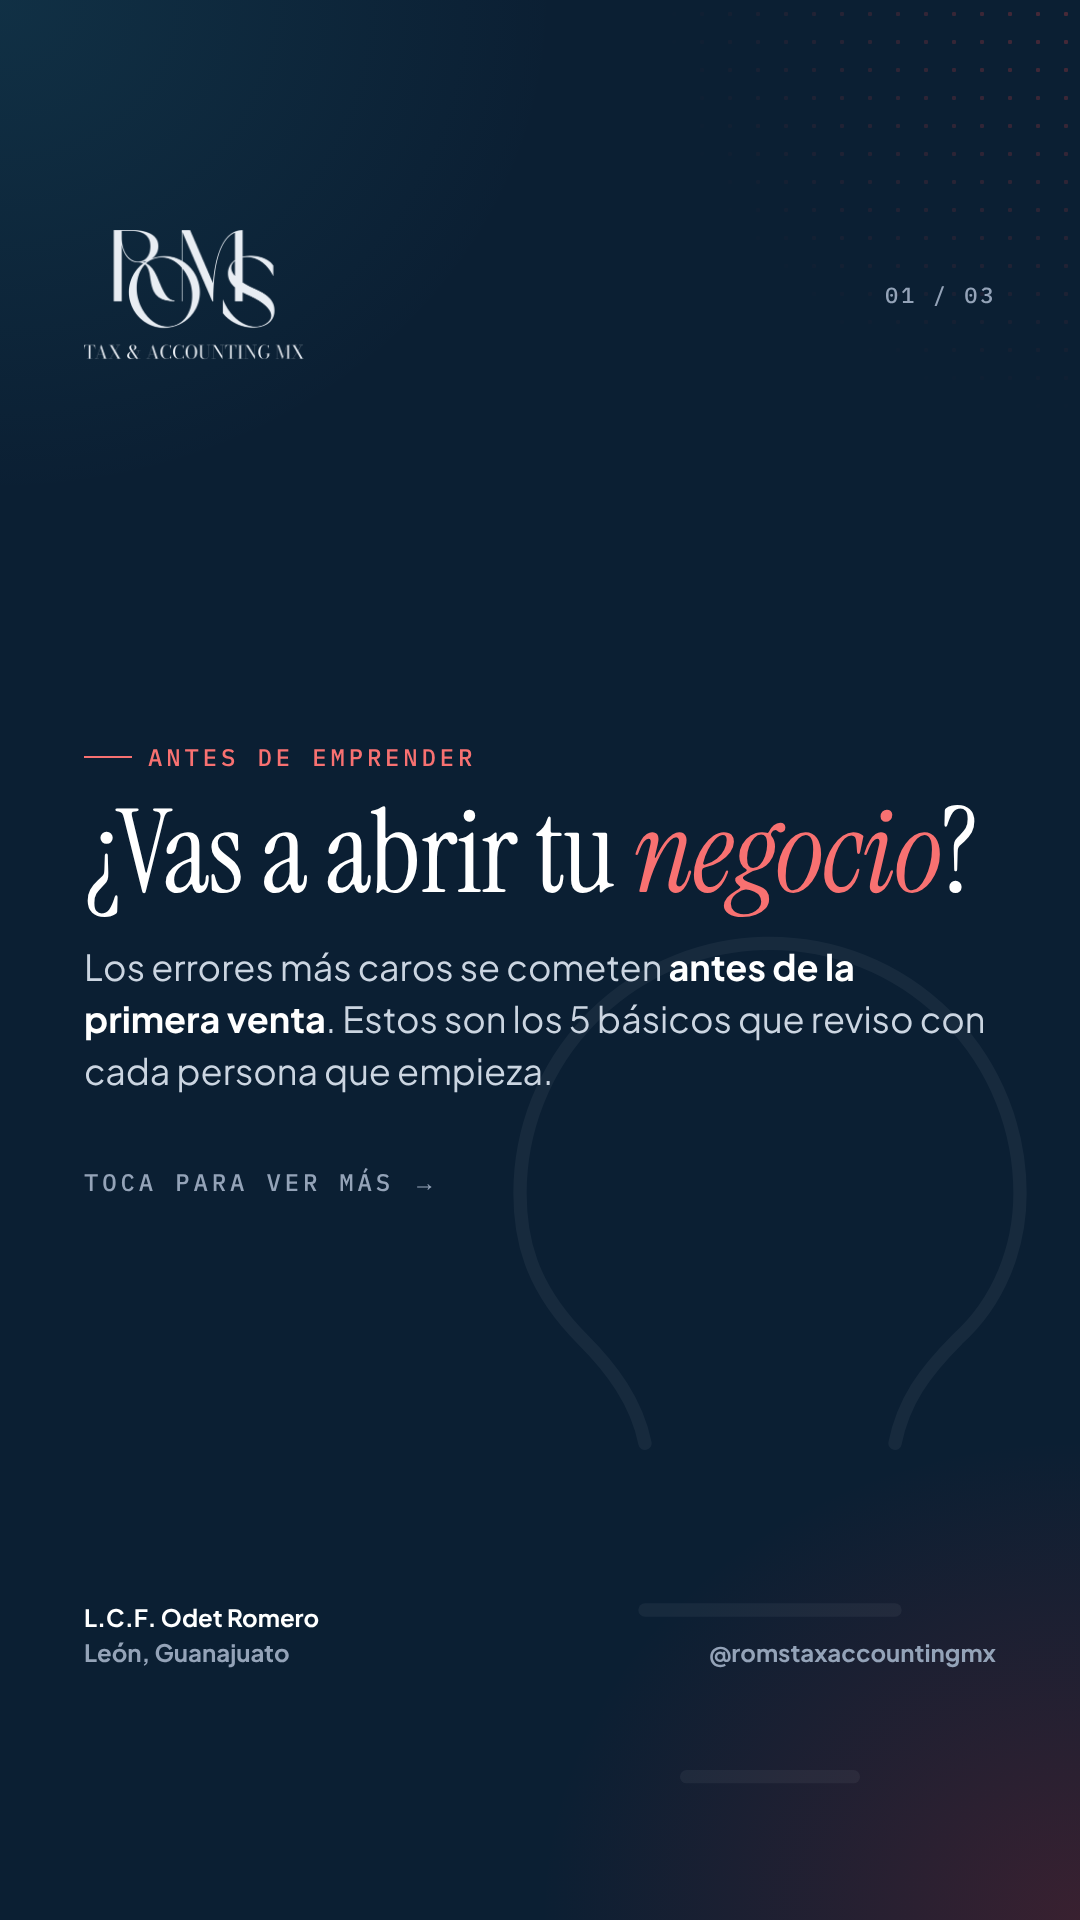
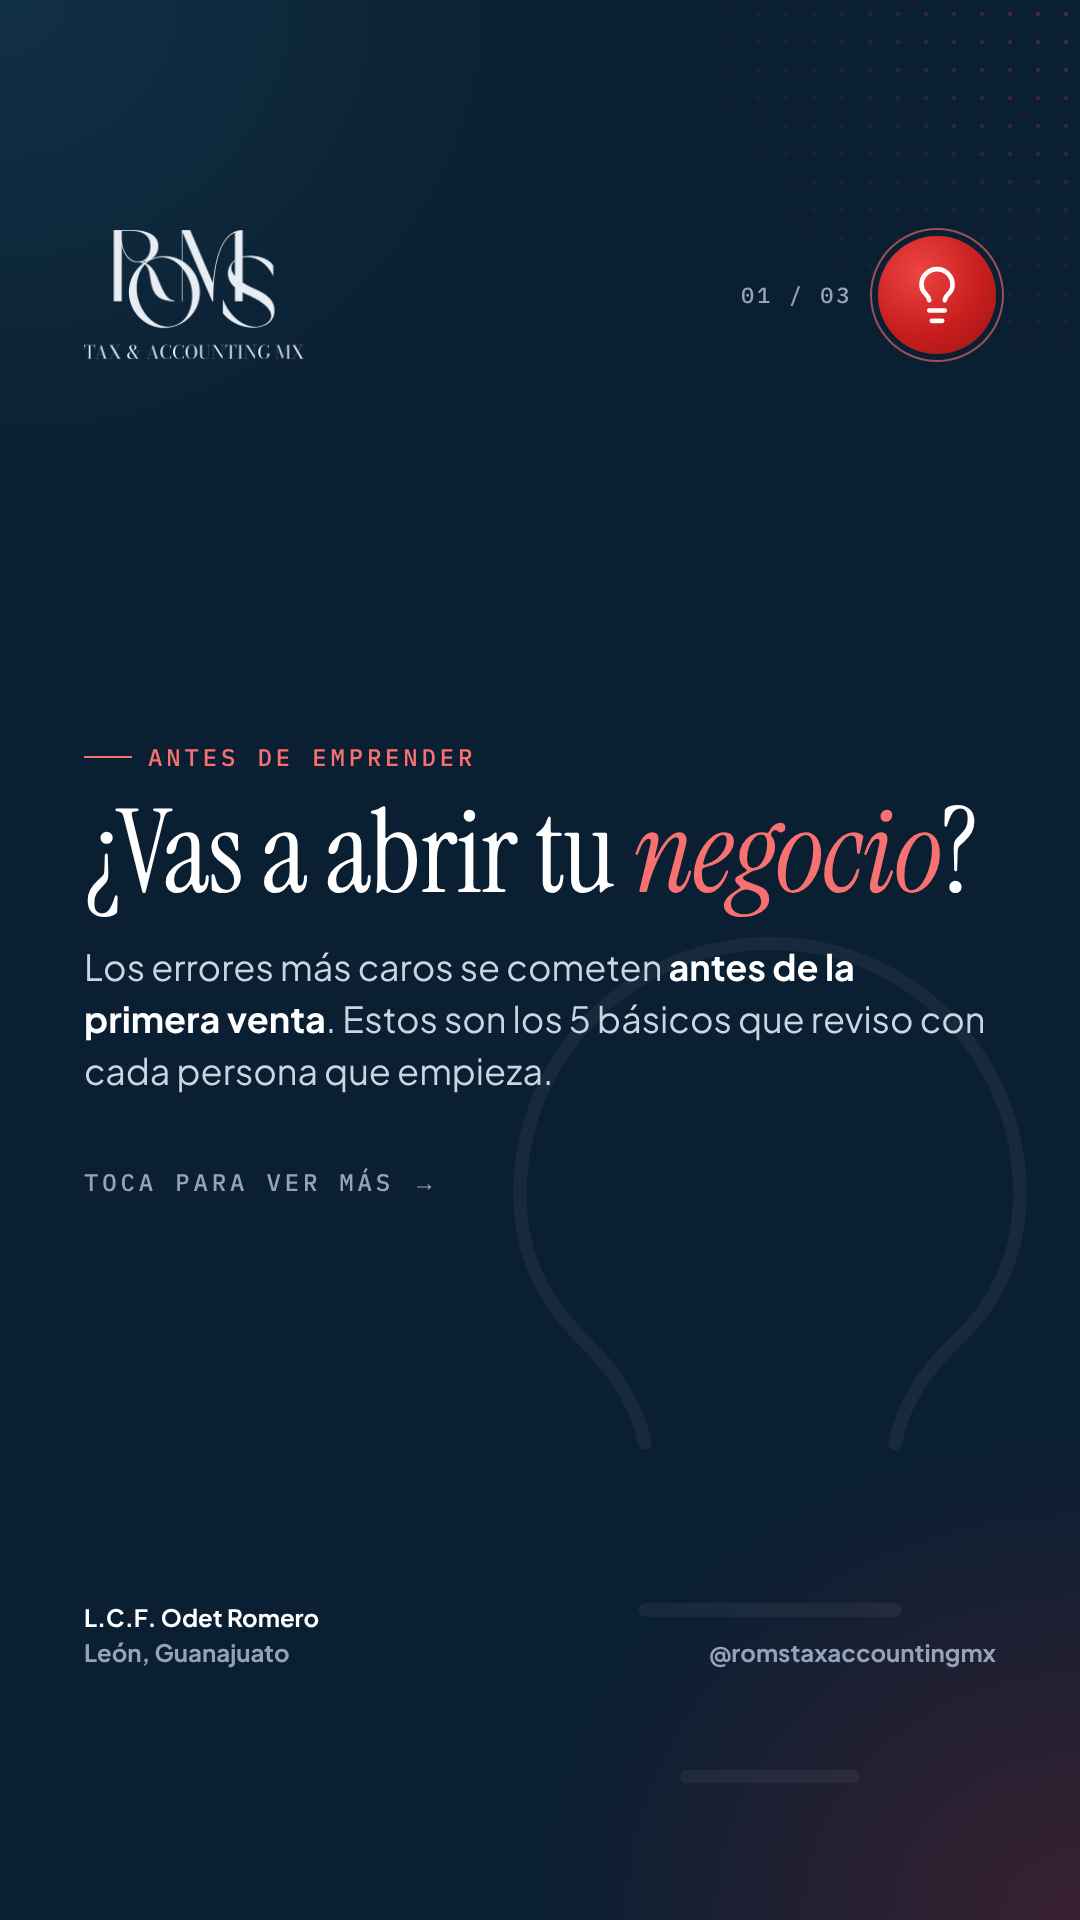
Redes: token por tema en las historias destacadas y carátula para cada tema
Claude-Session: https://claude.ai/code/session_017uhowZJtmGbGSZwToQsEiY

Changed region(s): [[0.7944, 0.125, 0.9472, 0.1875]]

diff --git a/redes/historias-martes.js b/redes/historias-martes.js
@@ -75,9 +75,13 @@ h4{font:700 36px/1.25 PJ;color:#0b1f33}
 .chk div{display:flex;gap:22px;align-items:center;font:400 38px/1.3 PJ;color:#fff}
 .chk svg{color:#f87171;flex:none}
 .cta{margin-top:56px;align-self:flex-start}
+.rt{display:flex;align-items:center;gap:26px}
+.tk{width:118px;height:118px;border-radius:50%;display:grid;place-items:center;color:#fff;background:radial-gradient(circle at 35% 30%,#ef4444,#c81e1e 55%,#9b1515);box-shadow:0 0 0 6px #0b1f33,0 0 0 8px rgba(248,113,113,.6)}
+.s:not(.dark) .tk{box-shadow:0 0 0 6px #f4f0e8,0 0 0 8px rgba(200,30,30,.45)}
 `;
-const page = (body, i, n, bg, dark) => `<!doctype html><html><head><meta charset="utf-8"><style>${css}</style></head><body><div class="s${dark?' dark':''}"><div class="dots"></div>${bg ? `<div class="bgart">${BG(bg)}</div>` : ''}
-<div class="z top"><img src="${dark?LOGOC:LOGO}" alt="ROMS"><span class="count">${String(i).padStart(2,'0')} / ${String(n).padStart(2,'0')}</span></div>
+const TK = n => `<span class="tk">${ICON(n, 62).replace('stroke-width="1.6"','stroke-width="1.8"')}</span>`;
+const page = (body, i, n, bg, dark, tok) => `<!doctype html><html><head><meta charset="utf-8"><style>${css}</style></head><body><div class="s${dark?' dark':''}"><div class="dots"></div>${bg ? `<div class="bgart">${BG(bg)}</div>` : ''}
+<div class="z top"><img src="${dark?LOGOC:LOGO}" alt="ROMS"><span class="rt"><span class="count">${String(i).padStart(2,'0')} / ${String(n).padStart(2,'0')}</span>${tok?TK(tok):''}</span></div>
 <div class="z mid">${body}</div>
 <div class="foot"><span><b>L.C.F. Odet Romero</b><br>León, Guanajuato</span><span>@romstaxaccountingmx</span></div></div></body></html>`;
 
@@ -162,15 +166,15 @@ const cover = (icon) => `<!doctype html><html><head><meta charset="utf-8"><style
   const p = await b.newPage({ viewport: { width: 1080, height: 1920 } });
   for (const [id, set] of Object.entries(sets)) {
     for (const [i, [body, dark]] of set.pages.entries()) {
-      await p.setContent(page(body, i + 1, set.pages.length, i === 0 ? set.bg : null, dark));
+      await p.setContent(page(body, i + 1, set.pages.length, i === 0 ? set.bg : null, dark, set.bg));
       await p.evaluate(() => document.fonts.ready);
       const over = await p.evaluate(() => { const m = document.querySelector('.mid'), f = document.querySelector('.foot'); const kids=[...m.children]; const last=kids[kids.length-1].getBoundingClientRect().bottom; const first=kids[0].getBoundingClientRect().top; return last > f.getBoundingClientRect().top - 20 || first < 380; });
       if (over) console.log('DESBORDA', id, i + 1);
       await p.screenshot({ path: path.join(out, `${id}-${i + 1}.png`) });
     }
   }
-  for (const ic of (process.argv[3]||'lightbulb').split(',')) {
-    await p.setContent(cover(ic)); await p.screenshot({ path: path.join(out, `caratula-destacada-${ic}.png`) });
+  for (const ic of Object.values(sets).map(x=>x.bg)) {
+    await p.setContent(cover(ic)); await p.screenshot({ path: path.join(out, `caratula-${Object.keys(sets).find(k=>sets[k].bg===ic).replace('hist-','')}.png`) });
   }
   await b.close(); console.log('ok');
 })();
